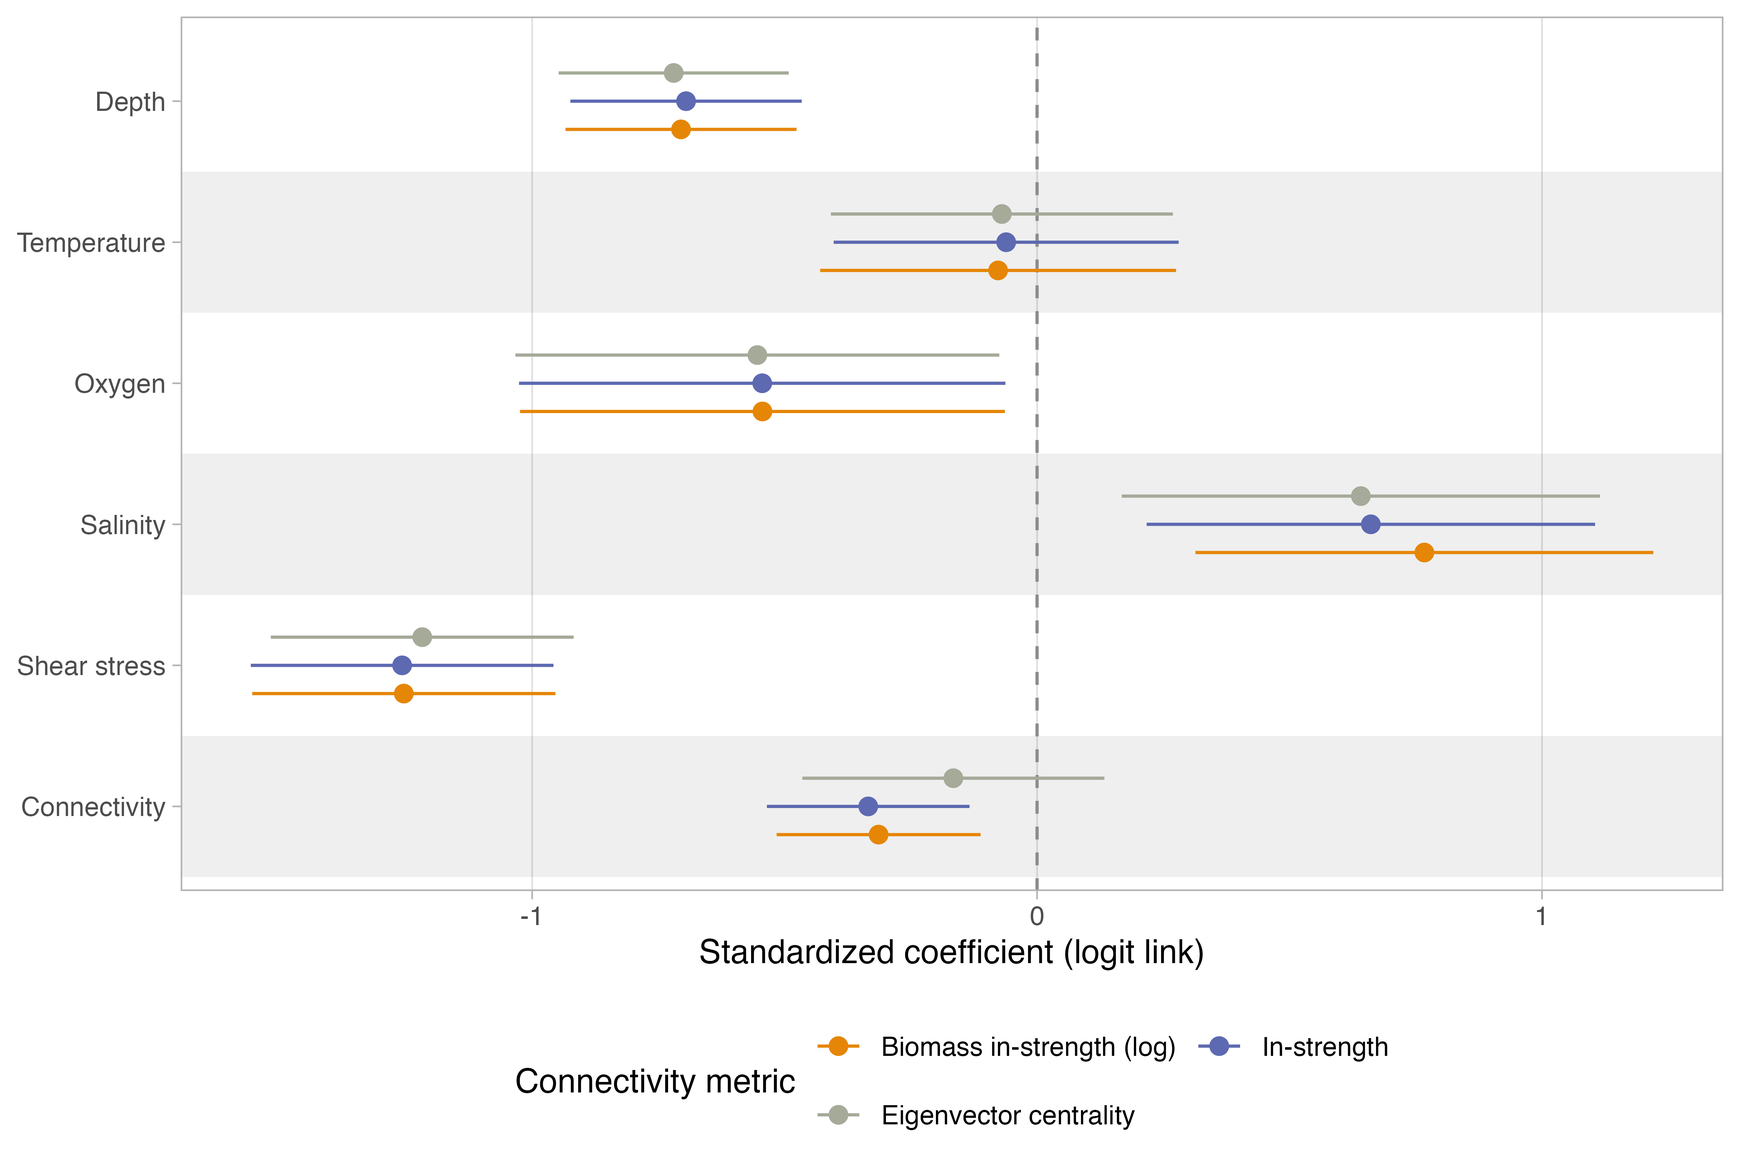
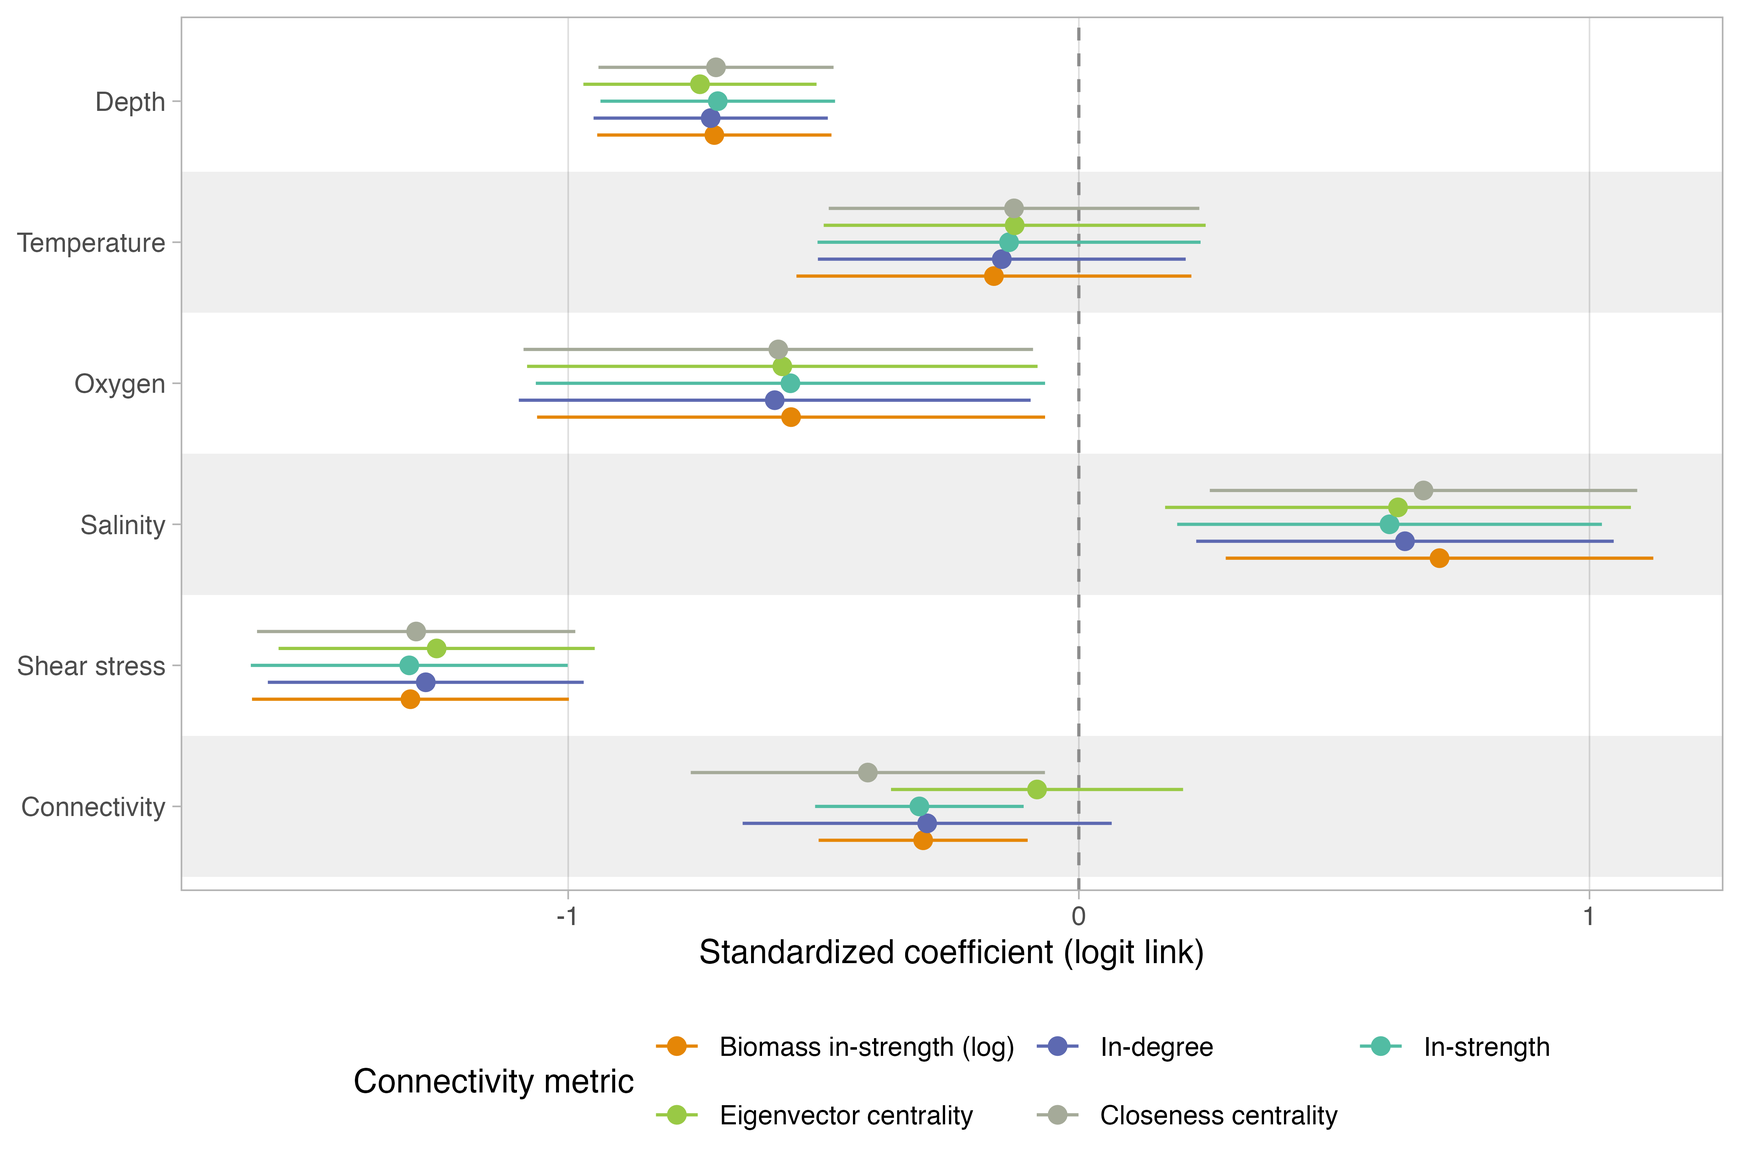
Restructure data as raw/derived, align 06 mesh with 03, refit
Data layout:
- data/raw/ holds every read-only input: cockles, connectivity (matrices,
  release, matrices_pld), environment, boundaries
- data/derived/ holds everything the pipeline writes (was intermediate/ + final/)
- all path references updated across the 15 R scripts

Code:
- 06 now builds the same fmesher mesh and uses the same local coastline as 03,
  removing the last rnaturalearth/network dependency from the pipeline
- fig1 read the orphaned pre-rename connectivity_weighted.rds, so its cluster
  map was built on stale values; now reads connectivity_weighted_all.rds
- dropped unused sf/patchwork imports from 04

Refit with the aligned mesh: all 36 models now converge (was 34). Closeness
centrality and in-strength swap first and second place for biomass (1.2 AIC
apart); the connectivity gain over Space + Environment is 11.6 AIC (was 16.1).
Figures, tables and the manuscript numbers are regenerated to match.

diff --git a/manuscript/main.tex b/manuscript/main.tex
@@ -156,7 +156,7 @@ $^2$DHI, Hørsholm, Denmark
 \section{Abstract}
 % ~150--300 words. State the question, the data/approach, the key findings,
 % and why they matter.
-Correlative species distribution models for sessile marine invertebrates generally assume unrestricted larval access to all suitable habitat, yet propagule supply is computable from biophysical transport models and is rarely tested as a predictor. We combined a 7{,}468-station survey of the common cockle \textit{Cerastoderma edule} in the Limfjorden, Denmark (2018--2025), with a particle-tracking simulation of larval dispersal to ask whether connectivity metrics improve a habitat-based spatial GLMM of cockle standing stock. A spatial random field accounted for 60.4\% of the total variance in biomass and the environmental predictors --- depth, salinity, temperature, oxygen and shear stress --- for 17.1\%, whereas five alternative connectivity metrics added only 1.5--4.5\%, the smallest explained component in every model. Connectivity did improve fit ($\Delta$AIC = 16.1), but entered with consistently negative coefficients (in-strength $\hat{\beta} = -0.47$, 95\% CI $-0.69$ to $-0.25$), opposite in sign to a larval-subsidy expectation, and had almost no marginal association with biomass ($|\rho| < 0.12$ for every metric). Modelled supply was strongly collinear with the fjord's habitat geography ($\rho = 0.59$ with depth, $-0.67$ with salinity), so the best-connected cells are the deep, brackish inner basins in which cockles were least abundant. The result was insensitive to which year of the dispersal simulation was used, but two purely topological metrics reversed sign when the spatial field was removed. \ml{[Optional, if the co-authors want the species-sorting argument: independent genetic and agent-based-modelling evidence that the Limfjorden is a single well-connected unit would support an interpretation in which post-settlement processes, not larval delivery, set adult distribution.]} Rather than a case against connectivity in distribution models, we present two computable diagnostics --- the collinearity of modelled supply with the environmental predictors, and the stability of connectivity coefficients to a spatial random field --- that indicate whether a connectivity covariate can inform a distribution model in a given system.
+Correlative species distribution models for sessile marine invertebrates generally assume unrestricted larval access to all suitable habitat, yet propagule supply is computable from biophysical transport models and is rarely tested as a predictor. We combined a 7{,}468-station survey of the common cockle \textit{Cerastoderma edule} in the Limfjorden, Denmark (2018--2025), with a particle-tracking simulation of larval dispersal to ask whether connectivity metrics improve a habitat-based spatial GLMM of cockle standing stock. A spatial random field accounted for 61\% of the total variance in biomass and the environmental predictors --- depth, salinity, temperature, oxygen and shear stress --- for 16\%, whereas five alternative connectivity metrics added only 1.0--2.9\%, the smallest explained component in every model. Connectivity did improve fit ($\Delta$AIC = 11.6), but entered with consistently negative coefficients (in-strength $\hat{\beta} = -0.41$, 95\% CI $-0.63$ to $-0.18$), opposite in sign to a larval-subsidy expectation, and had almost no marginal association with biomass ($|\rho| < 0.12$ for every metric). Modelled supply was strongly collinear with the fjord's habitat geography ($\rho = 0.59$ with depth, $-0.67$ with salinity), so the best-connected cells are the deep, brackish inner basins in which cockles were least abundant. The result was insensitive to which year of the dispersal simulation was used, but two purely topological metrics reversed sign when the spatial field was removed. \ml{[Optional, if the co-authors want the species-sorting argument: independent genetic and agent-based-modelling evidence that the Limfjorden is a single well-connected unit would support an interpretation in which post-settlement processes, not larval delivery, set adult distribution.]} Rather than a case against connectivity in distribution models, we present two computable diagnostics --- the collinearity of modelled supply with the environmental predictors, and the stability of connectivity coefficients to a spatial random field --- that indicate whether a connectivity covariate can inform a distribution model in a given system.
 
 \vspace*{\fill}
 \noindent
@@ -253,47 +253,48 @@ stations.
 
 Model selection was unambiguous about the ranking of the three blocks
 (Table~\ref{tab:model-selection}). Removing the spatial random field was by far
-the most costly simplification: the best non-spatial model was 1{,}123.5 AIC
+the most costly simplification: the best non-spatial model was 1{,}125.2 AIC
 units worse than the best spatial one. Removing the environmental block cost
-128.6 units, and removing connectivity cost 16.1 units. The best-supported
-biomass model was Space + Environment + Connectivity with in-strength as the
-connectivity term, and the same structure was best for presence.
+125.6 units, and removing connectivity cost 11.6 units. The best-supported
+biomass model was Space + Environment + Connectivity with closeness centrality
+as the connectivity term, with in-strength 1.2 units behind; for presence the
+in-strength model was best. All 36 fitted models converged.
 
-Within that model, biomass fell with depth
-($\hat{\beta} = -1.11 \pm 0.14$ per SD) and with maximum shear stress
-($\hat{\beta} = -1.41 \pm 0.17$), and rose with salinity
-($\hat{\beta} = 1.41 \pm 0.41$); the oxygen effect was weaker
-($\hat{\beta} = -0.45 \pm 0.23$) and temperature was indistinguishable from zero
-($\hat{\beta} = 0.21 \pm 0.30$). The densest beds therefore sat in the shallow,
+Within the best biomass model, biomass fell with depth
+($\hat{\beta} = -1.12 \pm 0.14$ per SD) and with maximum shear stress
+($\hat{\beta} = -1.52 \pm 0.18$), and rose with salinity
+($\hat{\beta} = 1.39 \pm 0.44$); the oxygen effect was weaker
+($\hat{\beta} = -0.54 \pm 0.24$) and temperature was indistinguishable from zero
+($\hat{\beta} = 0.15 \pm 0.36$). The densest beds therefore sat in the shallow,
 saline, low-energy parts of the fjord. The spatial field had a Mat\'ern range of
-4.8~km (95\% CI 3.6--6.3), i.e.\ residual spatial structure decayed over a
-distance of roughly two grid cells.
+5.4~km, i.e.\ residual spatial structure decayed over a distance of roughly two
+to three grid cells.
 
 Variance partitioning (Table~\ref{tab:variance-partitioning},
-Fig.~\ref{fig:variance}) put the conditional $R^2$ at 84.4\% and the marginal
-(fixed-effects) $R^2$ at 24.0\%. The spatial field accounted for 60.4\% of total
-variance, environment 17.1\%, survey gear 4.5\% and connectivity 2.5\%, with
-15.6\% unexplained. This ordering was stable across all five connectivity
-metrics (spatial field 59.4--64.7\%, environment 15.4--18.2\%, connectivity
-1.5--4.5\%).
+Fig.~\ref{fig:variance}) put the conditional $R^2$ at 84.5\% and the marginal
+(fixed-effects) $R^2$ at 22.5\% on average across metrics. For the in-strength
+model the spatial field accounted for 61.2\% of total variance, environment
+16.2\%, survey gear 4.7\% and connectivity 1.8\%, with 16.2\% unexplained. This
+ordering was stable across all five connectivity metrics (spatial field
+60.3--64.9\%, environment 15.1--17.0\%, connectivity 1.0--2.9\%).
 
 \subsection{Connectivity contributes little, and with the opposite sign}
 
 Connectivity improved the model, but modestly and in the direction opposite to a
 larval-subsidy expectation. All five metrics entered the biomass model with
 negative coefficients whose confidence intervals excluded zero
-(Fig.~\ref{fig:coefficients}): in-strength
-$\hat{\beta} = -0.47$ (95\% CI $-0.69$, $-0.25$), biomass in-strength (log)
-$-0.45$ ($-0.67$, $-0.23$), eigenvector centrality $-0.68$ ($-1.04$, $-0.31$),
-in-degree $-0.72$ ($-1.22$, $-0.22$), and closeness centrality $-0.90$
-($-1.32$, $-0.47$). Presence behaved the same way for the metrics that converged
-(in-strength $-0.33$; $-0.54$, $-0.13$). Higher modelled larval supply was thus
-associated with \emph{lower} adult cockle biomass, not higher.
+(Fig.~\ref{fig:coefficients}): closeness centrality
+$\hat{\beta} = -0.84$ (95\% CI $-1.30$, $-0.39$), in-degree $-0.63$ ($-1.15$,
+$-0.10$), eigenvector centrality $-0.53$ ($-0.90$, $-0.16$), in-strength $-0.41$
+($-0.63$, $-0.18$), and biomass in-strength (log) $-0.39$ ($-0.62$, $-0.16$).
+Presence behaved the same way (in-strength $-0.31$; $-0.51$, $-0.11$). Higher
+modelled larval supply was thus associated with \emph{lower} adult cockle
+biomass, not higher.
 
 The effect was also small relative to everything else in the model: at
-1.5--4.5\% of total variance, connectivity was the smallest explained component
+1.0--2.9\% of total variance, connectivity was the smallest explained component
 in every fitted model, below even the survey-gear intercept. The five metrics
-were near-tied on AIC (a spread of 9.8 units across all five), so the data do not
+were near-tied on AIC (a spread of 8.0 units across all five), so the data do not
 distinguish between them.
 
 \subsection{Supply and habitat share the same axis}
@@ -329,15 +330,15 @@ eigenvector centrality the least (0.68).
 
 Dependence on the spatial field was more consequential
 (Fig.~\ref{fig:space_confounding}). Refitting without the field left the sign of
-in-strength ($-0.47 \rightarrow -0.30$), biomass in-strength
-($-0.45 \rightarrow -0.34$) and eigenvector centrality
-($-0.68 \rightarrow -0.44$) unchanged, with magnitudes shrinking by 25--35\%. For
-in-degree ($-0.72 \rightarrow +0.30$) and closeness centrality
-($-0.90 \rightarrow +0.36$), however, the coefficient reversed sign. The two
+in-strength ($-0.41 \rightarrow -0.30$), biomass in-strength
+($-0.39 \rightarrow -0.34$) and eigenvector centrality
+($-0.53 \rightarrow -0.44$) unchanged, with magnitudes shrinking by 15--25\%. For
+in-degree ($-0.63 \rightarrow +0.30$) and closeness centrality
+($-0.84 \rightarrow +0.36$), however, the coefficient reversed sign. The two
 purely topological metrics are therefore not separable from broad spatial
 structure, whereas the supply-based metrics are. Dropping the field also
-redistributed variance dramatically, with the survey-gear share rising from 4.5\%
-to roughly 44\% and environment from 17\% to 26--30\%
+redistributed variance dramatically, with the survey-gear share rising from
+roughly 5\% to 44\% and environment from 16\% to 26--30\%
 (Fig.~\ref{fig:variance_nospace}), indicating that gear and location are partly
 aliased in this survey and that the spatial field is what separates them.
 
@@ -477,8 +478,7 @@ Funding sources and grant numbers.
     \includegraphics[width=0.85\textwidth]{figS_coefficients_presence.png}
     \caption{Standardized coefficients of the full Space + Environment +
     Connectivity presence model (Bernoulli, logit link), the counterpart of
-    Fig.~\ref{fig:coefficients}. The in-degree and closeness-centrality models
-    did not converge for this response and are omitted.}
+    Fig.~\ref{fig:coefficients}.}
     \label{fig:coefficients_presence}
 \end{figure}
 \FloatBarrier

diff --git a/output/tables/model_selection.tex b/output/tables/model_selection.tex
@@ -6,24 +6,24 @@
 \toprule
 Model & Presence $\Delta$AIC & Biomass $\Delta$AIC \\
 \midrule
-Space + Environment + Connectivity (in-strength) & \textbf{0.0} & \textbf{0.0} \\
-Space + Environment + Connectivity (closeness centrality) & --- & 0.7 \\
-Space + Environment + Connectivity (biomass in-strength, log) & 1.3 & 2.2 \\
-Space + Environment + Connectivity (eigenvector centrality) & 9.5 & 4.7 \\
-Space + Environment + Connectivity (in-degree) & --- & 9.8 \\
-Space + Environment & 8.7 & 16.1 \\
-Space + Connectivity (closeness centrality) & 97.1 & 105.4 \\
-Space + Connectivity (in-strength) & 96.1 & 107.9 \\
-Space + Connectivity (eigenvector centrality) & 104.3 & 110.1 \\
-Space + Connectivity (biomass in-strength, log) & 99.9 & 112.6 \\
-Space + Connectivity (in-degree) & 103.1 & 118.9 \\
-Space & 105.8 & 128.6 \\
-Environment + Connectivity (biomass in-strength, log) & 1448.5 & 1123.5 \\
-Environment + Connectivity (in-strength) & 1461.4 & 1130.8 \\
-Environment + Connectivity (eigenvector centrality) & 1500.4 & 1135.5 \\
-Environment + Connectivity (closeness centrality) & 1472.2 & 1135.5 \\
-Environment + Connectivity (in-degree) & 1488.0 & 1142.3 \\
-Environment & 1500.4 & 1147.7 \\
+Space + Environment + Connectivity (closeness centrality) & 3.3 & \textbf{0.0} \\
+Space + Environment + Connectivity (in-strength) & \textbf{0.0} & 1.2 \\
+Space + Environment + Connectivity (biomass in-strength, log) & 0.4 & 2.2 \\
+Space + Environment + Connectivity (eigenvector centrality) & 8.7 & 5.8 \\
+Space + Environment + Connectivity (in-degree) & 6.4 & 8.0 \\
+Space + Environment & 7.0 & 11.6 \\
+Space + Connectivity (closeness centrality) & 100.2 & 110.3 \\
+Space + Connectivity (in-strength) & 96.3 & 110.9 \\
+Space + Connectivity (biomass in-strength, log) & 98.9 & 113.5 \\
+Space + Connectivity (eigenvector centrality) & 104.5 & 115.0 \\
+Space + Connectivity (in-degree) & 103.4 & 121.0 \\
+Space & 104.0 & 125.6 \\
+Environment + Connectivity (biomass in-strength, log) & 1468.1 & 1125.2 \\
+Environment + Connectivity (in-strength) & 1481.1 & 1132.5 \\
+Environment + Connectivity (eigenvector centrality) & 1520.1 & 1137.1 \\
+Environment + Connectivity (closeness centrality) & 1491.9 & 1137.1 \\
+Environment + Connectivity (in-degree) & 1507.6 & 1144.0 \\
+Environment & 1520.1 & 1149.3 \\
 \bottomrule
 \end{tabular}
 \end{table}

diff --git a/output/tables/variance_partitioning.tex b/output/tables/variance_partitioning.tex
@@ -1,17 +1,17 @@
 \begin{table}[ht]
 \centering
-\caption{Variance partitioning of cockle biomass from the spatial Tweedie SDM (Nakagawa \& Schielzeth marginal / conditional $R^2$), with the connectivity slot rotated over five metrics. The spatial field and the three fixed-effect blocks together give the conditional $R^2$ (mean 85.1\% across metrics); the fixed blocks alone give the marginal $R^2$ (mean 23.8\%). Shares are percentages of total variance and sum to 100\% within each column.}
+\caption{Variance partitioning of cockle biomass from the spatial Tweedie SDM (Nakagawa \& Schielzeth marginal / conditional $R^2$), with the connectivity slot rotated over five metrics. The spatial field and the three fixed-effect blocks together give the conditional $R^2$ (mean 84.5\% across metrics); the fixed blocks alone give the marginal $R^2$ (mean 22.5\%). Shares are percentages of total variance and sum to 100\% within each column.}
 \label{tab:variance-partitioning}
 \begin{tabular}{lrrrrr}
 \toprule
 Component & Biomass in-strength (log) & In-degree & In-strength & Eigenvector centrality & Closeness centrality \\
 \midrule
-Spatial field & 60.5 & 61.6 & 60.4 & 59.4 & 64.7 \\
-Environment & 18.2 & 16.5 & 17.1 & 15.4 & 15.7 \\
-Survey (gear) & 4.4 & 3.8 & 4.5 & 4.7 & 2.9 \\
-Connectivity & 1.5 & 3.8 & 2.5 & 4.5 & 3.7 \\
+Spatial field & 61.3 & 62.1 & 61.2 & 60.3 & 64.9 \\
+Environment & 17.0 & 16.1 & 16.2 & 15.3 & 15.1 \\
+Survey (gear) & 4.6 & 4.1 & 4.7 & 4.9 & 3.2 \\
+Connectivity & 1.0 & 2.8 & 1.8 & 2.9 & 2.9 \\
 \midrule
-Unexplained & 15.4 & 14.3 & 15.6 & 16.1 & 13.0 \\
+Unexplained & 16.0 & 15.0 & 16.2 & 16.6 & 13.8 \\
 \bottomrule
 \end{tabular}
 \end{table}

diff --git a/README.md b/README.md
@@ -4,31 +4,90 @@ Integrating larval connectivity from a biophysical dispersal model into species
 distribution models for cockles (*Cerastoderma edule*) in the Limfjord, Denmark.
 
 Data are kept local (see `.gitignore`); this repository tracks the analysis
-scripts, figures, and tables only.
+scripts, figures, tables, and the manuscript only.
+
+## Layout
+
+```
+R/            analysis scripts (numbered = pipeline order)
+data/         local only, never tracked
+  raw/        read-only inputs; nothing in here is written by code
+  derived/    everything the pipeline writes; safe to delete and rebuild
+output/       figures (.png), tables (tables/*.tex), methods snippets
+manuscript/   main.tex, bibliography, and style files
+```
+
+The `raw` / `derived` split is the load-bearing one: if a file is in `derived/`
+it can always be regenerated by re-running the pipeline, so only `raw/` needs
+backing up.
+
+### `data/raw/`
+
+| Folder | Contents |
+|--------|----------|
+| `cockles/` | Cockle survey shapefile (biomass, presence, environment per station) |
+| `connectivity/matrices/` | ABM connectivity matrices, `ABM_cmn_<year>.csv` and `_all` |
+| `connectivity/release/` | Release vectors per source cell, `ABM_rel_<year>.csv` |
+| `connectivity/matrices_pld/` | Alternative pelagic-larval-duration matrices (not currently used) |
+| `environment/` | Bathymetry raster; EUSeaMap habitat layers |
+| `boundaries/` | Coastline (`land_small_utm`) and Limfjord water outline |
+
+### `data/derived/`
+
+Written by the pipeline, in this order: `cockles_clean.rds`, `spatial_grid.rds`,
+`flow_matrix_{2010..2016,all}.rds`, `avg_biomass_grid.rds`,
+`weighted_flow_matrix_*.rds`, `connectivity_weighted_*.rds`,
+`connectivity_by_year.rds`, `cockles_connectivity.rds`,
+`cockles_connectivity_sensitivity.rds`, `sdm_fits.rds`,
+`sdm_model_comparison.rds`.
 
 ## Pipeline (`R/`)
+
+Run in numerical order; the figure and table scripts can be run once `06` has
+produced the fits.
 
 | Script | Purpose |
 |--------|---------|
 | `00_clean_cockles.R` | Clean the cockle survey data, attach depth |
-| `01_compute_flow_matrix.R` | Flow (settlement-probability) matrix from the dispersal model |
-| `02_make_grid.R` | Build the spatial grid |
-| `03_predict_avg_biomass.R` | Predict mean biomass / presence to the grid (depth-only) |
-| `04_weight_flow_matrix.R` | Biomass-weighted supply and structural graph metrics |
-| `05_extract_connectivity.R` | Attach connectivity metrics to survey observations |
+| `01_compute_flow_matrix.R` | Flow (settlement-probability) matrices, per year and pooled |
+| `02_make_grid.R` | Build the 2 km spatial grid |
+| `03_predict_avg_biomass.R` | Predict mean biomass / presence onto the grid |
+| `04_weight_flow_matrix.R` | Weighted supply and structural graph metrics, per flow matrix |
+| `05_extract_connectivity.R` | Attach metrics to survey observations (+ per-year sensitivity set) |
+| `05b_plot_connectivity.R` | Supplementary map of the connectivity metrics |
 | `06_fit_sdm.R` | Fit and compare the spatial SDMs (presence, biomass) |
-| `07_variance_partitioning.R` | Nakagawa marginal / conditional variance partition |
+| `07_variance_partitioning.R` | Variance partition, with and without the spatial field |
 | `fig1_study_area.R` | Figure 1 — study area and connectivity clusters |
-| `fig2_coefficients.R` | Figure 2 — standardized coefficients |
-| `fig_covariates.R` | Covariate maps |
+| `fig2_coefficients.R` | Figure 2 (biomass) + supplementary presence coefficients |
+| `fig_covariates.R` | Supplementary covariate maps |
+| `figS_space_confounding.R` | Supplementary — connectivity with vs without the spatial field |
+| `figS_connectivity_biomass_correlation.R` | Supplementary — sensitivity to the dispersal year |
 | `tab_model_selection.R` | Model-selection table (LaTeX) |
 
-## Outputs (`output/`)
+## Connectivity metrics
 
-Figures (`.png`), tables (`tables/*.tex`), and methods text (`methods_*.tex`).
+Computed per grid cell in `04` from the flow matrix `F` (rows = source,
+columns = sink): `biomass_in_strength`, `log_biomass_in_strength` and
+`presence_in_strength` (incoming flow weighted by predicted source biomass or
+occurrence), and the purely structural `deg_in`, `in_strength`,
+`local_retention`, `eigen_centrality`, and `closeness_centrality` (the last on a
+`log(1/p)` cost-transformed graph, after Costa et al. 2017).
 
 ## Models
 
-Spatial GLMMs (`sdmTMB`) with a coastline barrier mesh: biomass (Tweedie) and
-presence (Bernoulli), with environmental, gear, and connectivity covariates and
-a spatial random field.
+Spatial GLMMs (`sdmTMB`) on an `fmesher` mesh with a land barrier: biomass
+(Tweedie, log link) and presence (Bernoulli, logit link), with environmental,
+gear, and connectivity covariates and a spatial random field. `06` rotates the
+connectivity slot over five metrics across six model structures.
+
+## Manuscript
+
+`manuscript/main.tex` pulls figures and tables directly from `output/` via
+`\graphicspath` and `\input`, so they cannot drift from the fitted models. It
+requires XeLaTeX (fontspec / Libertinus Serif).
+
+## Note on package versions
+
+`sdmTMBextra` 0.0.5 calls `fmesher::fm_identical_CRS`, renamed in fmesher >= 0.7.
+`03` and `06` register the old name as an alias at the top of the script; remove
+those shims once `sdmTMBextra` is updated.
